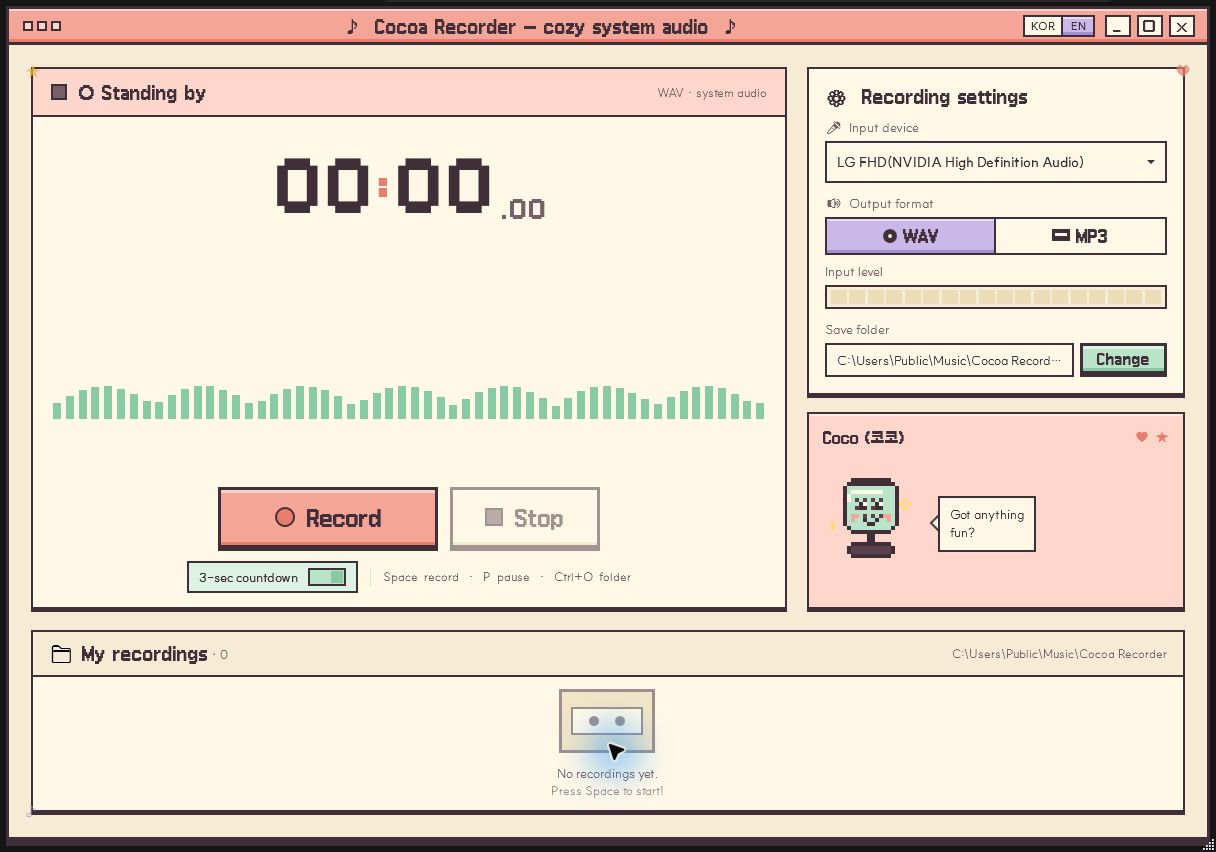
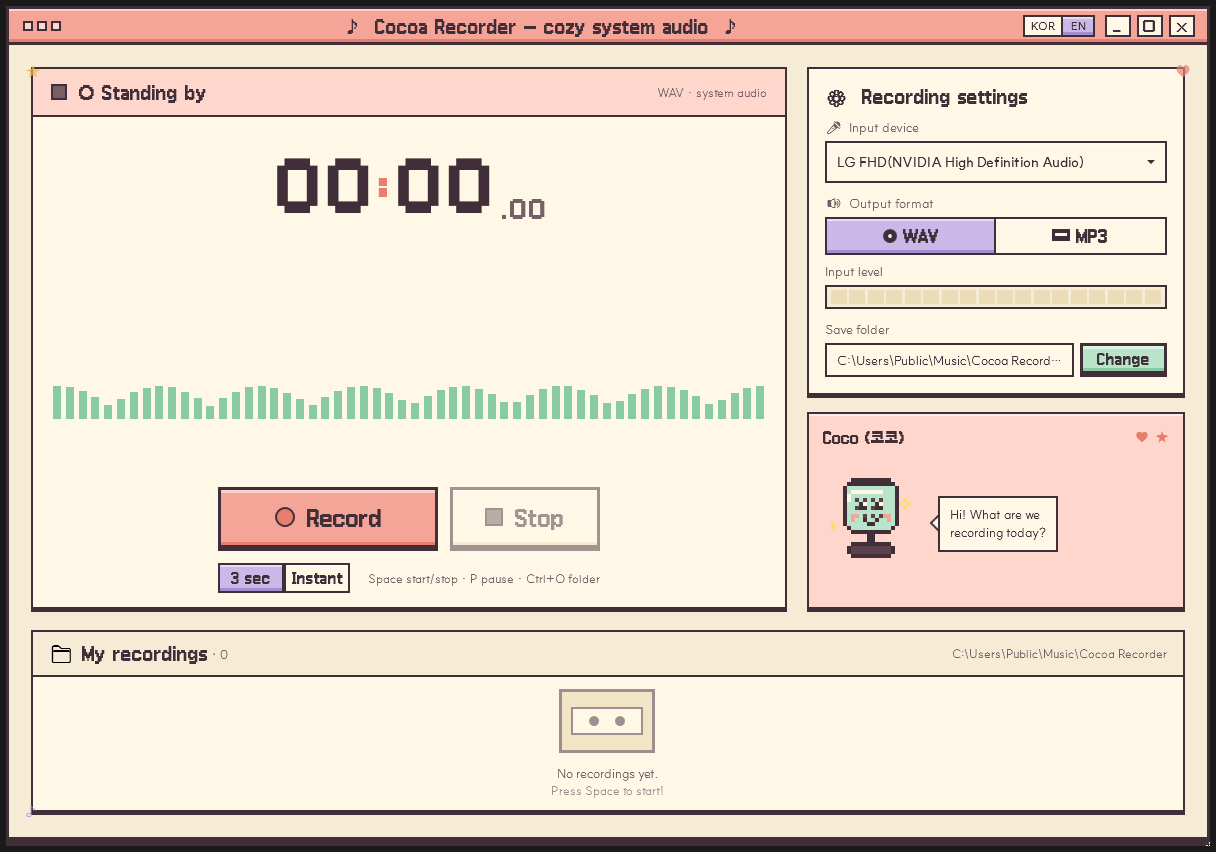
Rework the countdown control as a segmented choice
The 3-second countdown shipped as a slider switch — a control shape the
app uses nowhere else. Rebuild it from FormatToggle, the same segmented
pair behind WAV|MP3, LO|MED|HI and KOR|EN, so "off" gets a name of its
own ("바로" / "Instant") instead of being an unlabelled state.

Two defects went with the old switch:

- Space was taken from the focused control. The window-level shortcut
  handler claimed Key.Space before any button saw it, so tabbing to the
  countdown control and pressing Space — the key that control exists to
  answer — started a recording instead. Buttons, toggles and radios now
  keep their own Space; the shortcut still works everywhere else.
- The on state read weaker than the off state: the mint knob on its mint
  track measures 1.36:1, against 4.27:1 off, under the 3:1 floor for
  non-text contrast. The segmented control inherits the house checked
  treatment, so that goes away with the switch.

Also pin the sub-row to the transport row's width so the control lines
up with the Record button's left edge in both languages — it drifted
31px in English — drop the 1px divider that was invisible against the
panel, add a dashed keyboard focus ring the segmented styles never had,
keep the countdown tooltip readable while recording, and reword the
Korean shortcut hint, which advertised "녹음 토글" next to a toggle.

Screenshots refreshed for both languages.

diff --git a/App.xaml b/App.xaml
@@ -45,7 +45,6 @@
             <SolidColorBrush x:Key="CoralSoftBrush" Color="{StaticResource CoralSoftColor}"/>
             <SolidColorBrush x:Key="MintBrush"     Color="{StaticResource MintColor}"/>
             <SolidColorBrush x:Key="MintDeepBrush" Color="{StaticResource MintDeepColor}"/>
-            <SolidColorBrush x:Key="MintSoftBrush" Color="{StaticResource MintSoftColor}"/>
             <SolidColorBrush x:Key="LilacBrush"    Color="{StaticResource LilacColor}"/>
             <SolidColorBrush x:Key="LilacDeepBrush" Color="{StaticResource LilacDeepColor}"/>
             <SolidColorBrush x:Key="GoldBrush"     Color="{StaticResource GoldColor}"/>
@@ -220,6 +219,21 @@
             <!-- ============================================================
                  FormatToggle — WAV / MP3 (RadioButton)
                  ============================================================ -->
+            <!-- 키보드 포커스 링 — 잉크 점선. 키보드로 이동했을 때만 나타난다. -->
+            <Style x:Key="PixelFocusVisual">
+                <Setter Property="Control.Template">
+                    <Setter.Value>
+                        <ControlTemplate>
+                            <Rectangle Stroke="{StaticResource InkDarkBrush}"
+                                       StrokeThickness="2"
+                                       StrokeDashArray="2 2"
+                                       Margin="3"
+                                       SnapsToDevicePixels="True"/>
+                        </ControlTemplate>
+                    </Setter.Value>
+                </Setter>
+            </Style>
+
             <Style x:Key="FormatToggle" TargetType="RadioButton">
                 <Setter Property="Background" Value="{StaticResource PaperBrush}"/>
                 <Setter Property="Foreground" Value="{StaticResource InkDarkBrush}"/>
@@ -231,6 +245,7 @@
                 <Setter Property="HorizontalContentAlignment" Value="Center"/>
                 <Setter Property="VerticalContentAlignment" Value="Center"/>
                 <Setter Property="SnapsToDevicePixels" Value="True"/>
+                <Setter Property="FocusVisualStyle" Value="{StaticResource PixelFocusVisual}"/>
                 <Setter Property="Template">
                     <Setter.Value>
                         <ControlTemplate TargetType="RadioButton">
@@ -274,62 +289,11 @@
                 <Setter Property="FontWeight" Value="SemiBold"/>
             </Style>
 
-            <!-- Compact start-delay switch shown beside the transport hints. -->
-            <Style x:Key="CountdownSwitch" TargetType="ToggleButton">
-                <Setter Property="Background" Value="{StaticResource PaperBrush}"/>
-                <Setter Property="Foreground" Value="{StaticResource InkDarkBrush}"/>
-                <Setter Property="FontFamily" Value="{StaticResource UiFont}"/>
+            <!-- 카운트다운 선택 — WAV|MP3, KOR|EN과 같은 세그먼티드 컨트롤 어휘를 쓴다. -->
+            <Style x:Key="CountdownSegment" TargetType="RadioButton" BasedOn="{StaticResource FormatToggle}">
+                <Setter Property="Height" Value="30"/>
                 <Setter Property="FontSize" Value="13"/>
-                <Setter Property="FontWeight" Value="SemiBold"/>
-                <Setter Property="Cursor" Value="Hand"/>
-                <Setter Property="Height" Value="32"/>
-                <Setter Property="Template">
-                    <Setter.Value>
-                        <ControlTemplate TargetType="ToggleButton">
-                            <Border x:Name="switchBorder"
-                                    Background="{TemplateBinding Background}"
-                                    BorderBrush="{StaticResource InkDarkBrush}"
-                                    BorderThickness="2"
-                                    Padding="10,4"
-                                    SnapsToDevicePixels="True">
-                                <Grid>
-                                    <Grid.ColumnDefinitions>
-                                        <ColumnDefinition Width="Auto"/>
-                                        <ColumnDefinition Width="Auto"/>
-                                    </Grid.ColumnDefinitions>
-                                    <ContentPresenter VerticalAlignment="Center"/>
-                                    <Border Grid.Column="1"
-                                            x:Name="track"
-                                            Width="38" Height="18"
-                                            Margin="10,0,0,0"
-                                            Background="{StaticResource CreamDeepBrush}"
-                                            BorderBrush="{StaticResource InkDarkBrush}"
-                                            BorderThickness="2">
-                                        <Border x:Name="knob"
-                                                Width="12" Height="12"
-                                                Margin="1"
-                                                HorizontalAlignment="Left"
-                                                Background="{StaticResource InkSoftBrush}"/>
-                                    </Border>
-                                </Grid>
-                            </Border>
-                            <ControlTemplate.Triggers>
-                                <Trigger Property="IsChecked" Value="True">
-                                    <Setter TargetName="switchBorder" Property="Background" Value="{StaticResource MintSoftBrush}"/>
-                                    <Setter TargetName="track" Property="Background" Value="{StaticResource MintBrush}"/>
-                                    <Setter TargetName="knob" Property="HorizontalAlignment" Value="Right"/>
-                                    <Setter TargetName="knob" Property="Background" Value="{StaticResource MintDeepBrush}"/>
-                                </Trigger>
-                                <Trigger Property="IsMouseOver" Value="True">
-                                    <Setter TargetName="switchBorder" Property="BorderBrush" Value="{StaticResource AccentDeepBrush}"/>
-                                </Trigger>
-                                <Trigger Property="IsEnabled" Value="False">
-                                    <Setter Property="Opacity" Value="0.45"/>
-                                </Trigger>
-                            </ControlTemplate.Triggers>
-                        </ControlTemplate>
-                    </Setter.Value>
-                </Setter>
+                <Setter Property="MinWidth" Value="66"/>
             </Style>
 
             <!-- ============================================================

diff --git a/MainWindow.xaml b/MainWindow.xaml
@@ -212,7 +212,7 @@
 
                                 <!-- Transport buttons -->
                                 <StackPanel Grid.Row="3" HorizontalAlignment="Center" Margin="0,8,0,14">
-                                <StackPanel Orientation="Horizontal" HorizontalAlignment="Center">
+                                <StackPanel x:Name="TransportButtons" Orientation="Horizontal" HorizontalAlignment="Center">
                                     <Button x:Name="RecordButton"
                                             Style="{StaticResource PixelButton}"
                                             Background="{StaticResource AccentBrush}"
@@ -277,22 +277,40 @@
                                         </StackPanel>
                                     </Button>
                                 </StackPanel>
-                                <StackPanel Orientation="Horizontal"
-                                            HorizontalAlignment="Center"
-                                            VerticalAlignment="Center"
-                                            Margin="0,10,0,0">
-                                    <ToggleButton x:Name="CountdownToggle"
-                                                  Style="{StaticResource CountdownSwitch}"
-                                                  Content="{DynamicResource L_CountdownToggle}"
-                                                  ToolTip="{DynamicResource L_CountdownHint}"/>
-                                    <Border Width="1" Height="18"
-                                            Background="{StaticResource CreamDeepBrush}"
-                                            Margin="12,0"/>
-                                    <TextBlock Text="{DynamicResource L_ShortcutHint}"
+                                <!-- 카운트다운 선택은 녹음 버튼 왼쪽 모서리에, 힌트는 오른쪽 끝에 붙는다.
+                                     라벨 길이가 달라지는 두 언어에서 같은 자리를 유지하기 위한 배치다. -->
+                                <Grid Margin="0,12,0,0"
+                                      Width="{Binding ActualWidth, ElementName=TransportButtons}">
+                                    <Grid.ColumnDefinitions>
+                                        <ColumnDefinition Width="Auto"/>
+                                        <ColumnDefinition Width="*" MinWidth="12"/>
+                                        <ColumnDefinition Width="Auto"/>
+                                    </Grid.ColumnDefinitions>
+                                    <StackPanel Grid.Column="0"
+                                                Orientation="Horizontal"
+                                                VerticalAlignment="Center">
+                                        <RadioButton x:Name="CountdownOnToggle"
+                                                     Style="{StaticResource CountdownSegment}"
+                                                     GroupName="Countdown"
+                                                     Content="{DynamicResource L_CountdownOn}"
+                                                     ToolTip="{DynamicResource L_CountdownHint}"
+                                                     ToolTipService.ShowOnDisabled="True"
+                                                     Checked="Countdown_Checked"/>
+                                        <RadioButton x:Name="CountdownOffToggle"
+                                                     Style="{StaticResource CountdownSegment}"
+                                                     GroupName="Countdown"
+                                                     Content="{DynamicResource L_CountdownOff}"
+                                                     ToolTip="{DynamicResource L_CountdownHint}"
+                                                     ToolTipService.ShowOnDisabled="True"
+                                                     Checked="Countdown_Checked"/>
+                                    </StackPanel>
+                                    <TextBlock Grid.Column="2"
+                                               Text="{DynamicResource L_ShortcutHint}"
                                                VerticalAlignment="Center"
                                                FontSize="12"
+                                               TextTrimming="CharacterEllipsis"
                                                Foreground="{StaticResource InkSoftBrush}"/>
-                                </StackPanel>
+                                </Grid>
                                 </StackPanel>
                             </Grid>
                         </ContentControl>

diff --git a/MainWindow.xaml.cs b/MainWindow.xaml.cs
@@ -24,6 +24,7 @@ public partial class MainWindow : Window
 
     private readonly AudioRecorder _recorder = new();
     private readonly AppPreferences _preferences = AppPreferences.Load();
+    private bool _preferencesReady;
     private string _saveFolder = string.Empty;
 
     private readonly DispatcherTimer _uiTimer;
@@ -51,9 +52,9 @@ public partial class MainWindow : Window
         UpdateLangToggle();
         L10n.LanguageChanged += OnLanguageChanged;
 
-        CountdownToggle.IsChecked = _preferences.CountdownEnabled;
-        CountdownToggle.Checked += CountdownToggle_Changed;
-        CountdownToggle.Unchecked += CountdownToggle_Changed;
+        CountdownOnToggle.IsChecked = _preferences.CountdownEnabled;
+        CountdownOffToggle.IsChecked = !_preferences.CountdownEnabled;
+        _preferencesReady = true;
 
         _saveFolder = ResolveInitialSaveFolder();
         Directory.CreateDirectory(_saveFolder);
@@ -102,6 +103,10 @@ public partial class MainWindow : Window
     {
         // Don't hijack typing inside text inputs (renames, future search box, etc.)
         if (Keyboard.FocusedElement is TextBox) return;
+        // Buttons, toggles and radios answer Space themselves. Without this the window-level
+        // shortcut would start a recording behind the focused control's back.
+        if (e.Key == Key.Space &&
+            Keyboard.FocusedElement is System.Windows.Controls.Primitives.ButtonBase) return;
 
         bool ctrl = (Keyboard.Modifiers & ModifierKeys.Control) != 0;
 
@@ -298,9 +303,11 @@ public partial class MainWindow : Window
         UpdateFormatInfo();
     }
 
-    private void CountdownToggle_Changed(object sender, RoutedEventArgs e)
+    private void Countdown_Checked(object sender, RoutedEventArgs e)
     {
-        _preferences.CountdownEnabled = CountdownToggle.IsChecked == true;
+        // Fires once while XAML loads, before the stored value is applied — ignore that one.
+        if (!_preferencesReady) return;
+        _preferences.CountdownEnabled = CountdownOnToggle.IsChecked == true;
         _preferences.Save();
     }
 
@@ -386,7 +393,7 @@ public partial class MainWindow : Window
             MascotSpeech.Text = L10n.T("MsgPickDevice");
             return;
         }
-        if (CountdownToggle.IsChecked == true)
+        if (CountdownOnToggle.IsChecked == true)
             BeginCountdown(3);
         else
             ActuallyStartRecording();
@@ -399,7 +406,7 @@ public partial class MainWindow : Window
         WavToggle.IsEnabled = false;
         Mp3Toggle.IsEnabled = false;
         RecordButton.IsEnabled = false;
-        CountdownToggle.IsEnabled = false;
+        SetCountdownChoiceEnabled(false);
         StopButton.IsEnabled = true; // Lets the user cancel mid-count via the stop button or Space.
         PauseButton.Visibility = Visibility.Collapsed;
 
@@ -521,7 +528,7 @@ public partial class MainWindow : Window
         MedToggle.IsEnabled = !recording;
         HiToggle.IsEnabled = !recording;
         RecordButton.IsEnabled = !recording;
-        CountdownToggle.IsEnabled = !recording;
+        SetCountdownChoiceEnabled(!recording);
         StopButton.IsEnabled = recording;
         PauseButton.IsEnabled = recording;
         PauseButton.Visibility = recording ? Visibility.Visible : Visibility.Collapsed;
@@ -545,6 +552,12 @@ public partial class MainWindow : Window
             _blinkOn = true;
         }
         UpdateStatusDot();
+    }
+
+    private void SetCountdownChoiceEnabled(bool enabled)
+    {
+        CountdownOnToggle.IsEnabled = enabled;
+        CountdownOffToggle.IsEnabled = enabled;
     }
 
     private void UpdateStatusDot()

diff --git a/Localization.cs b/Localization.cs
@@ -67,10 +67,12 @@ public static class L10n
         ["PauseBtn"]        = ("일시정지", "Pause"),
         ["ResumeBtn"]       = ("재개", "Resume"),
         ["StopBtn"]         = ("정지", "Stop"),
-        ["CountdownToggle"] = ("3초 준비", "3-sec countdown"),
-        ["CountdownHint"]   = ("끄면 버튼을 누르는 즉시 녹음해요", "Turn off to record immediately"),
-        ["ShortcutHint"]    = ("Space  녹음 토글   ·   P  일시정지   ·   Ctrl+O  폴더",
-                               "Space  record   ·   P  pause   ·   Ctrl+O  folder"),
+        ["CountdownOn"]     = ("3초 후", "3 sec"),
+        ["CountdownOff"]    = ("바로", "Instant"),
+        ["CountdownHint"]   = ("'바로'를 고르면 버튼을 누르는 즉시 녹음해요",
+                               "Pick Instant to start recording the moment you press Record"),
+        ["ShortcutHint"]    = ("Space 시작/정지 · P 일시정지 · Ctrl+O 폴더",
+                               "Space start/stop · P pause · Ctrl+O folder"),
 
         // 설정 패널
         ["SettingsTitle"]   = ("⚙  녹음 설정", "⚙  Recording settings"),
